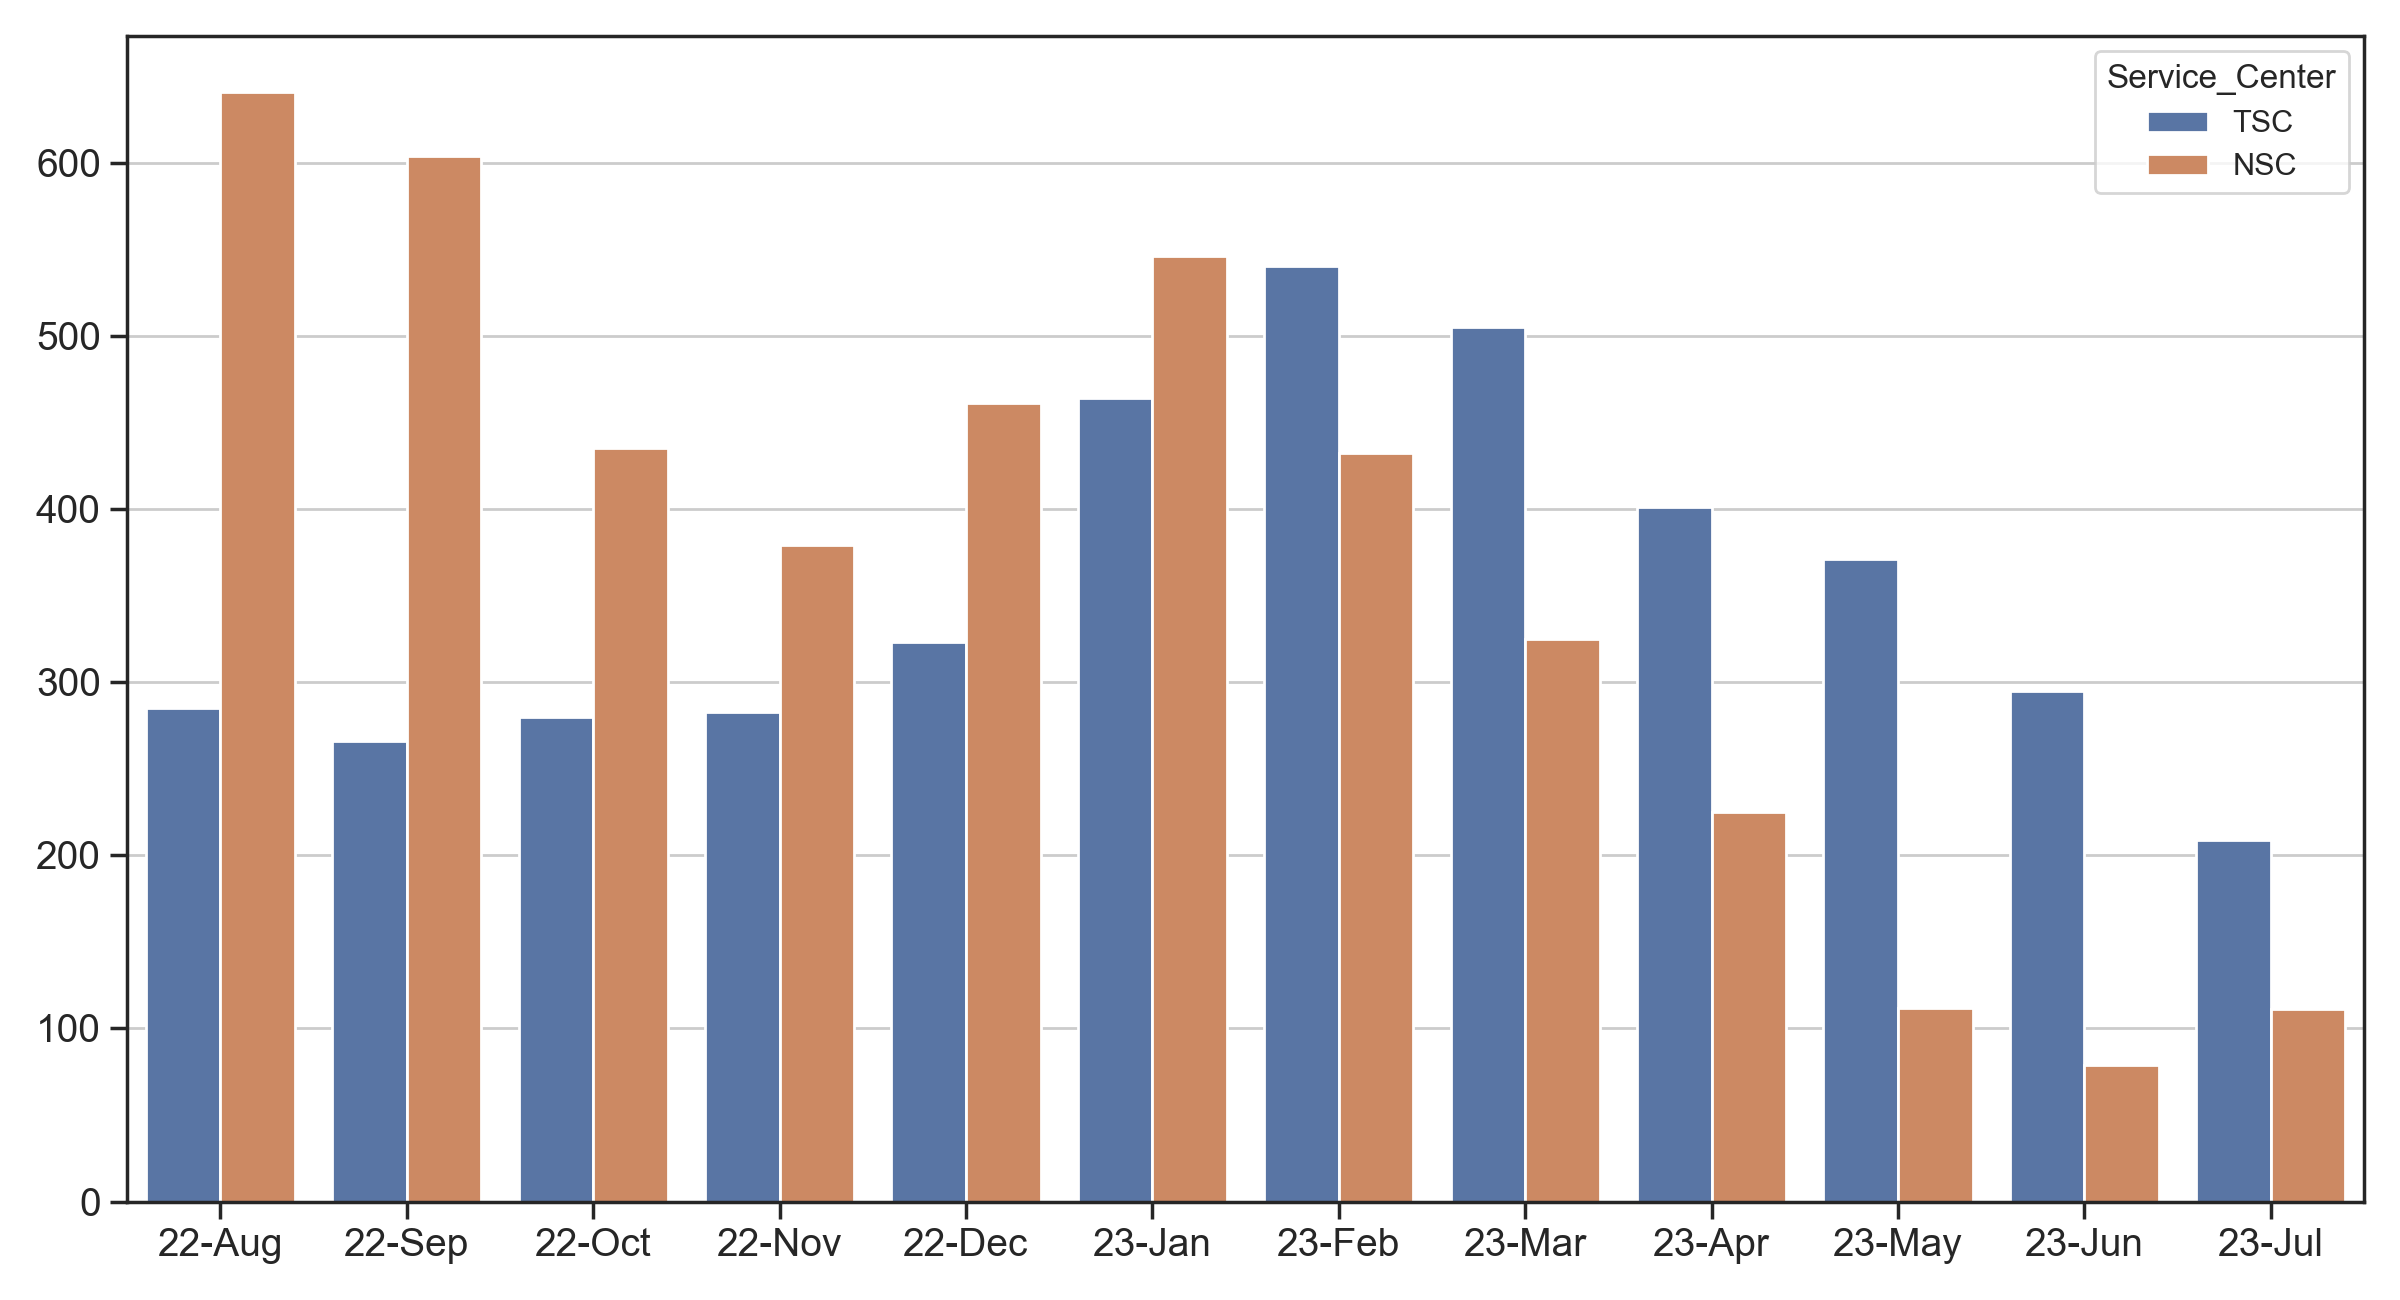
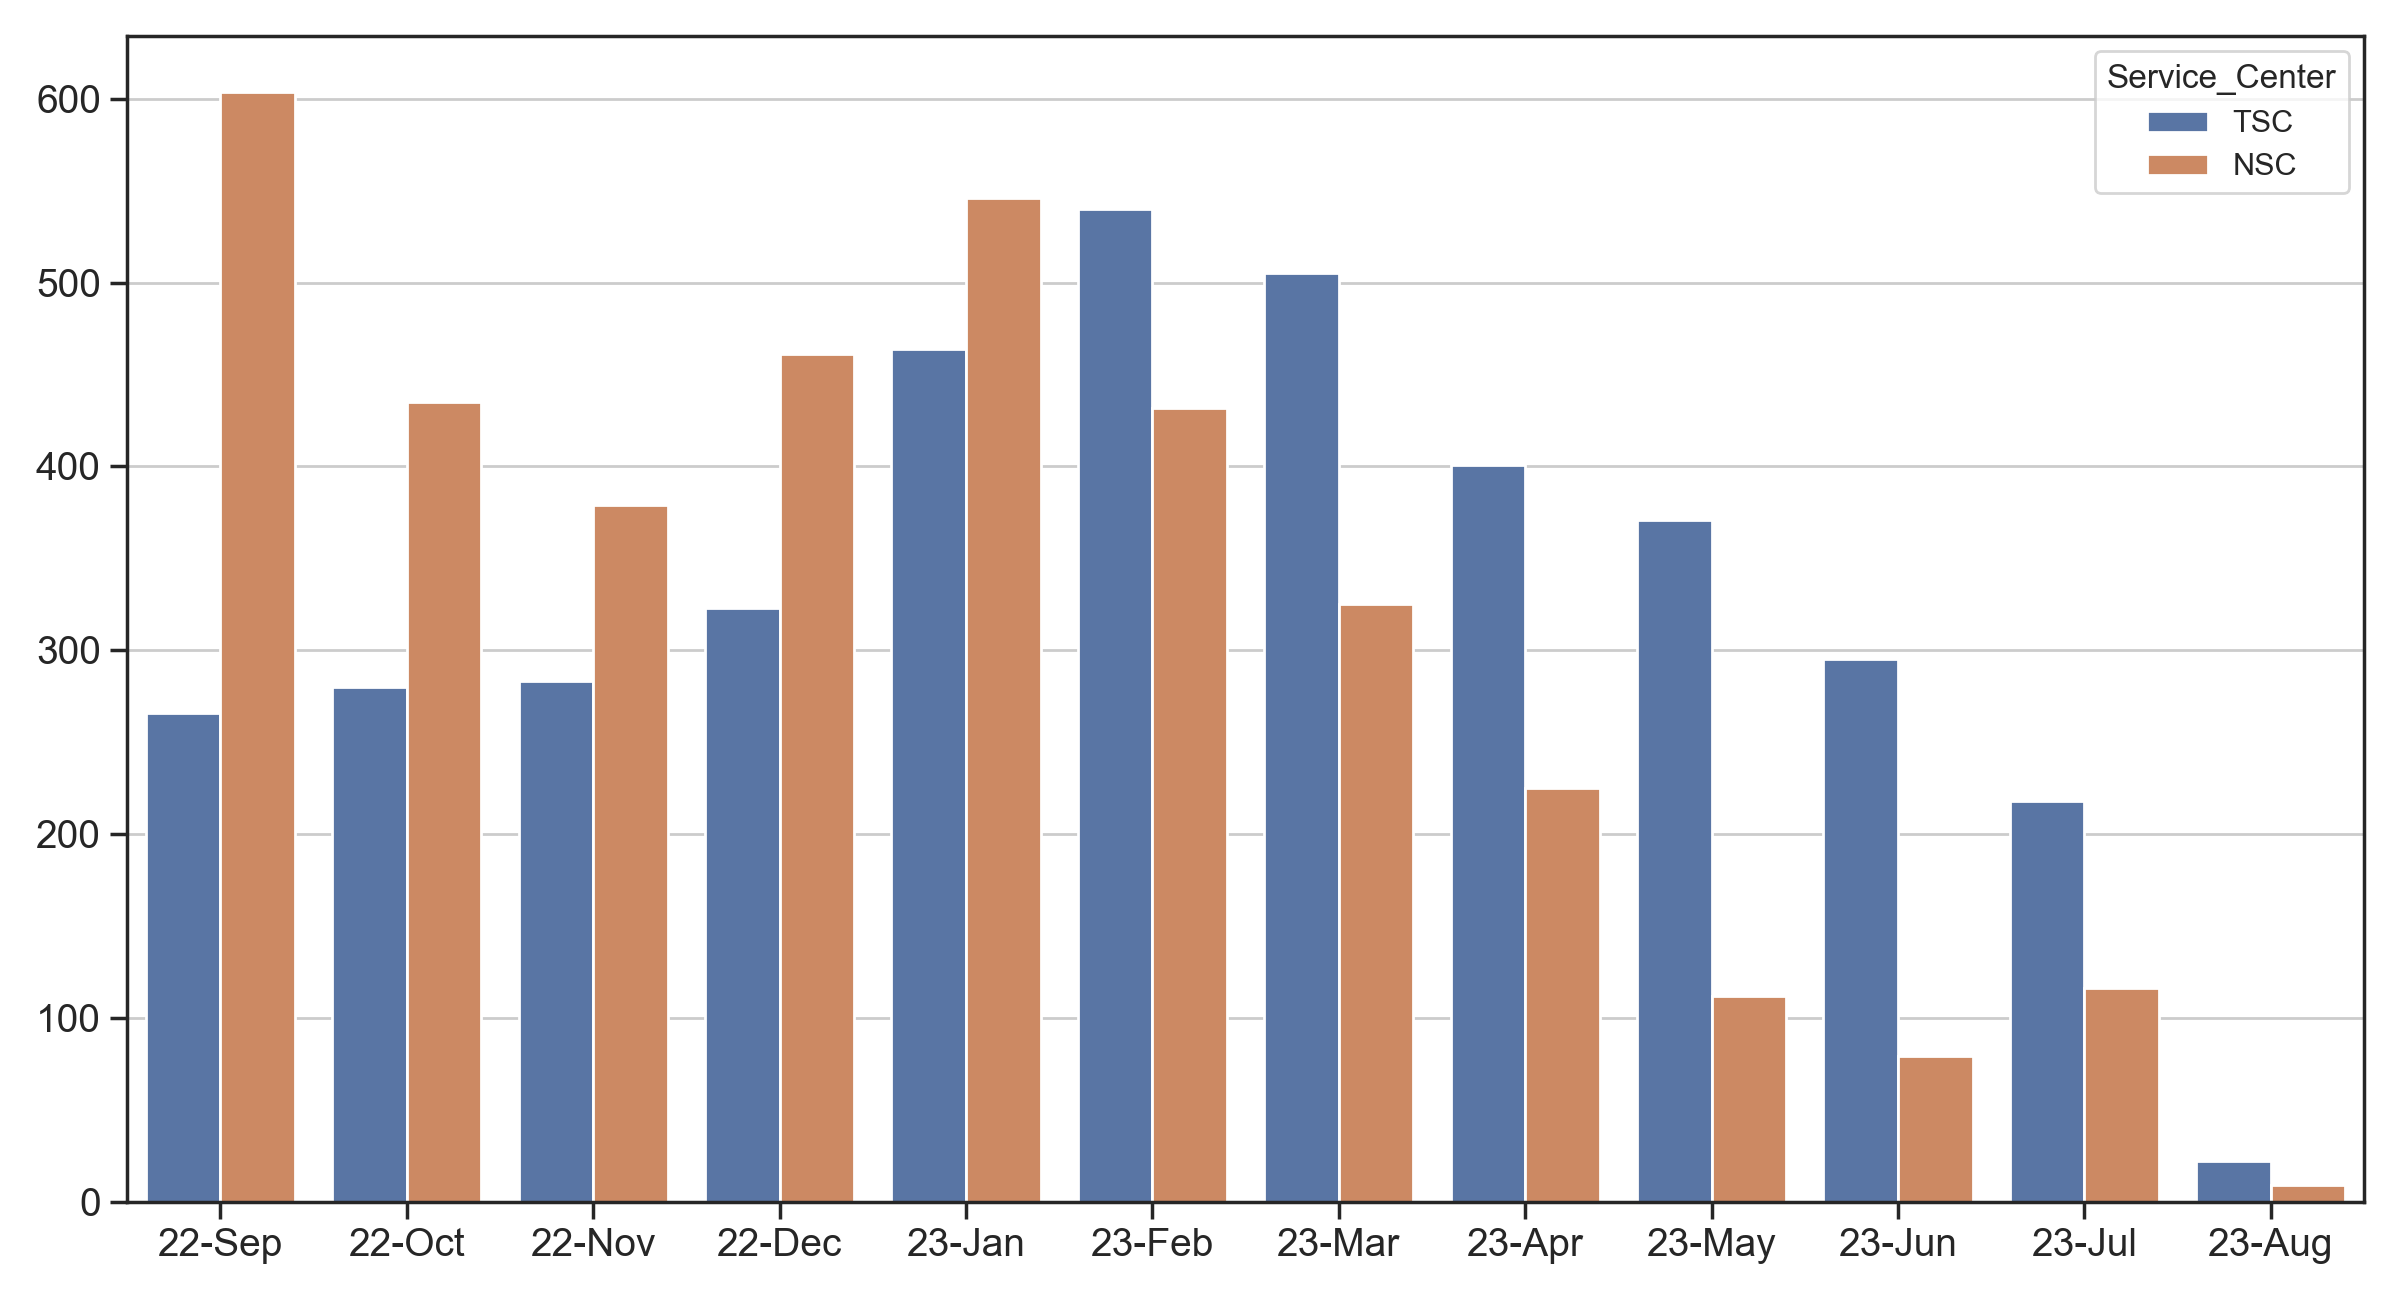
Aug-22 update

diff --git a/README.md b/README.md
@@ -1,4 +1,4 @@
-## National Interest Waiver Wait Time, updated Aug-17-2023 
+## National Interest Waiver Wait Time, updated Aug-22-2023 
 * If you wish to join our Telegram action group to discuss the delays of processing at TSC, please [fill out this form](https://docs.google.com/forms/d/194Vp6uimucdul6iqtNFB1HSKz_z75RKsQ-cp3z7f8YY/viewform?edit_requested=true).
  
 USCIS Employment-based-2 NIW I-140 wait time before approval (data source: [Victoria Chen](https://www.wegreened.com/eb1_niw_approvals)). 
